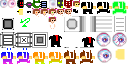
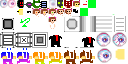
Add Transporter weapon: F key throws teleport pearls with 5s cooldown

Changed region(s): [[0.625, 0.0, 1.0, 0.25]]

diff --git a/appObjects.js b/appObjects.js
@@ -744,7 +744,7 @@ class KeyItem extends GameObject
 ///////////////////////////////////////////////////////////////////////////////
 
 // Item type definitions
-// Order: Life (0), Health (1), Laser (2), Cannon (3), Jumper (4), Hammer (5), Radar (6), Smoker (7), Fang (8), Ladymaker (9)
+// Order: Life (0), Health (1), Laser (2), Cannon (3), Jumper (4), Hammer (5), Radar (6), Smoker (7), Fang (8), Ladymaker (9), Transporter (10)
 const itemType_life = 0;
 const itemType_health = 1;
 const itemType_laser = 2;
@@ -755,6 +755,7 @@ const itemType_radar = 6;
 const itemType_smoker = 7;
 const itemType_fang = 8;
 const itemType_ladymaker = 9;
+const itemType_transporter = 10;
 
 const itemType_consumable = 0;
 const itemType_equipable = 1;
@@ -811,6 +812,11 @@ const itemRegistry = {
         category: itemType_equipable, 
         tileIndex: 9, 
         weaponType: 'LadymakerWeapon' 
+    },
+    [itemType_transporter]: { 
+        category: itemType_equipable, 
+        tileIndex: 10, 
+        weaponType: 'TransporterWeapon' 
     }
 };
 
@@ -1947,6 +1953,185 @@ class LadymakerWeapon extends Weapon
             // Not pressing F, reset buffer and spawn flag
             this.girlSpawnTimeBuffer = min(this.girlSpawnTimeBuffer, 0);
             this.hasSpawnedThisPress = 0;
+        }
+    }
+}
+
+///////////////////////////////////////////////////////////////////////////////
+
+class PearlProjectile extends GameObject
+{
+    constructor(pos, attacker) 
+    {
+        super(pos, vec2(.2), 5, vec2(8)); // Same size and sprite as hammer
+        this.tileIndex = 5; // Use hammer sprite
+
+        this.health = this.healthMax = 1e3;
+        this.attacker = attacker;
+        this.team = attacker.team;
+        this.elasticity = .3;
+        this.friction = .9;
+        this.angleDamping = .96;
+        this.renderOrder = 1e8;
+        this.gravityScale = 1; // Affected by gravity for ballistic trajectory
+        this.setCollision();
+        this.color = new Color(0, 0, 0, 1); // All black (hammer sprite)
+    }
+
+    update()
+    {
+        super.update();
+
+        // Check for any collision - teleport player immediately on contact
+        // Check tile collision
+        if (getTileCollisionData(this.pos) > 0 && getTileCollisionData(this.pos) != tileType_ladder)
+        {
+            this.teleportPlayer();
+            return;
+        }
+
+        // Check for ground contact
+        if (this.groundObject)
+        {
+            this.teleportPlayer();
+            return;
+        }
+
+        // Check for object collisions (but pass through enemies)
+        forEachObject(this.pos, this.size, (o)=>
+        {
+            if (o.isGameObject && !o.parent && o != this.attacker)
+            {
+                // Pass through enemies, but collide with other objects
+                if (!o.isCharacter || o.team == this.team)
+                {
+                    this.teleportPlayer();
+                    return;
+                }
+            }
+        });
+    }
+    
+    teleportPlayer()
+    {
+        if (this.destroyed || !this.attacker || !this.attacker.isPlayer)
+            return;
+        
+        // Teleport the player to pearl position
+        this.attacker.pos = this.pos.copy();
+        this.attacker.velocity = vec2(0, 0);
+        this.attacker.groundObject = 0; // Reset ground state
+        
+        // Play sound
+        playSound(sound_jump, this.pos);
+        
+        // Destroy the pearl
+        this.destroy();
+    }
+    
+    collideWithObject(o)
+    {
+        // Pass through enemies, but teleport on other collisions
+        if (o.isCharacter && o.team != this.team)
+        {
+            // Pass through enemies
+            return 0;
+        }
+        
+        // Teleport on other collisions
+        this.teleportPlayer();
+        return 1;
+    }
+    
+    collideWithTile(data, pos)
+    {
+        if (data <= 0 || data == tileType_ladder)
+            return 0;
+        
+        // Teleport immediately on tile collision
+        this.teleportPlayer();
+        return 1;
+    }
+       
+    render()
+    {
+        // Draw hammer sprite (tileIndex 5) with white glow
+        drawTile(this.pos, vec2(.5), this.tileIndex, this.tileSize, this.color, this.angle);
+
+        // White glow effect
+        setBlendMode(1);
+        drawTile(this.pos, vec2(.6), 0, vec2(16), new Color(1, 1, 1, .5), this.angle);
+        setBlendMode(0);
+    }
+}
+
+///////////////////////////////////////////////////////////////////////////////
+
+class TransporterWeapon extends Weapon
+{
+    constructor(pos, parent)
+    {
+        super(pos, parent);
+        this.fireTimeBuffer = 0;
+        this.fireRate = 0.2; // 5 second cooldown (1/5 = 0.2)
+        this.hidden = 1; // Don't render the weapon sprite (helmet is rendered separately)
+    }
+    
+    update()
+    {
+        super.update();
+        
+        // Only handle pearl throwing for player
+        if (!this.parent.isPlayer)
+            return;
+        
+        this.fireTimeBuffer += timeDelta;
+        
+        // Check if F key is pressed (key code 70)
+        const fJustPressed = !this.parent.playerIndex && keyWasPressed(70);
+        
+        if (fJustPressed)
+        {
+            const rate = 1/this.fireRate; // 5 seconds
+            
+            // Check if cooldown is ready
+            if (this.fireTimeBuffer >= rate)
+            {
+                // Get base aim angle from parent
+                const baseAimAngle = this.parent.aimAngle || 0;
+                
+                // Calculate forward direction based on mirror state and aim angle
+                const forwardDirection = vec2(this.parent.getMirrorSign(1), 0).rotate(baseAimAngle);
+                
+                // Only fire forward (check if direction matches facing direction)
+                const isFiringForward = (this.parent.mirror == 0 && forwardDirection.x >= 0) || 
+                                         (this.parent.mirror == 1 && forwardDirection.x <= 0);
+                
+                if (isFiringForward)
+                {
+                    // Calculate weapon position (where pearl comes from)
+                    const sizeScale = this.parent.sizeScale || 1;
+                    const weaponPos = this.parent.pos.add(
+                        vec2(this.parent.getMirrorSign(.55), 0).scale(sizeScale)
+                    );
+                    
+                    // Create pearl projectile
+                    const pearl = new PearlProjectile(weaponPos, this.parent);
+                    
+                    // Use same throw trajectory as hammer (thrown far)
+                    pearl.velocity = this.parent.velocity.add(vec2(this.parent.getMirrorSign(), rand(.8,.7)).normalize(.25+rand(.02)));
+                    pearl.angleVelocity = this.parent.getMirrorSign() * rand(.8,.5);
+                    
+                    // Play sound
+                    playSound(sound_jump, weaponPos);
+                    
+                    // Alert enemies
+                    alertEnemies(weaponPos, weaponPos);
+                    
+                    // Reset cooldown
+                    this.fireTimeBuffer = 0;
+                }
+            }
         }
     }
 }

diff --git a/app.js b/app.js
@@ -606,6 +606,8 @@ engineInit(
                     headwearTileIndex = 8; // itemType_fang tileIndex
                 else if (player.equippedWeaponType == 'LadymakerWeapon')
                     headwearTileIndex = 9; // itemType_ladymaker tileIndex
+                else if (player.equippedWeaponType == 'TransporterWeapon')
+                    headwearTileIndex = 10; // itemType_transporter tileIndex
                 
                 if (headwearTileIndex >= 0 && typeof drawTile2 === 'function')
                 {

diff --git a/appCharacters.js b/appCharacters.js
@@ -4070,6 +4070,8 @@ class Player extends Character
             newWeapon = new FangWeapon(this.pos, this);
         else if (weaponType == 'LadymakerWeapon')
             newWeapon = new LadymakerWeapon(this.pos, this);
+        else if (weaponType == 'TransporterWeapon')
+            newWeapon = new TransporterWeapon(this.pos, this);
         else
             newWeapon = new Weapon(this.pos, this);
         
